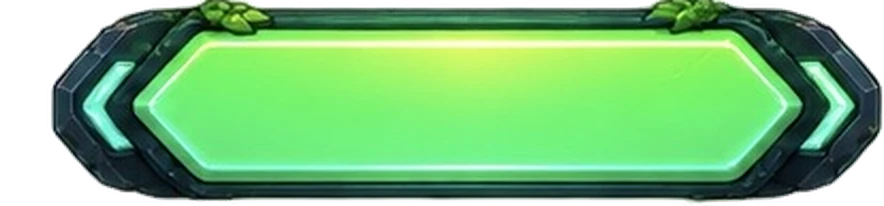
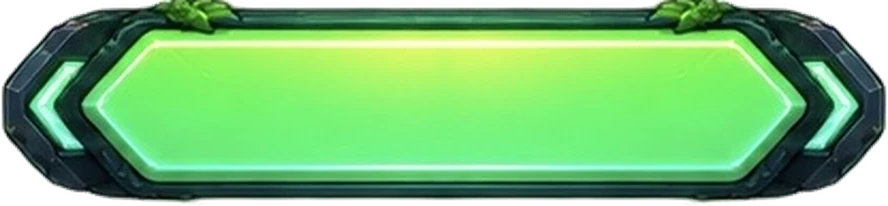
fix(game): everything in the dialogs centred and symmetric
Measured, not eyeballed: the green bar's left end had been cut by the
sheet's edge, leaving it 24px off-centre, so it is rebuilt by mirroring
its intact half; the defeat crest is padded onto its centroid; row cards
put the text column exactly on the picture's body and the icon on the
ring's centre; a wide button row no longer pushes the game-over column
3px right (rows stack, the panel's grid track is bounded); shop titles
and section labels are centred; titles clear the frame's crown gem.

diff --git a/src/game/game.css b/src/game/game.css
@@ -612,6 +612,8 @@ body {
 
 .panel-in {
   display: grid;
+  /* One track that can never grow past the box: a wide child must not shift the column. */
+  grid-template-columns: minmax(0, 1fr);
   align-content: safe center;
   justify-items: center;
   gap: 12px;
@@ -727,10 +729,9 @@ body {
   margin: 0;
 }
 
-/* Two bevelled bars side by side leave no room for words on a phone: stack them. */
-@media (max-width: 480px) {
-  .panel .row { flex-direction: column; gap: 10px; }
-}
+/* Two bevelled bars side by side are wider than the frame's plain centre
+   and would push the whole column off-centre: stack them, everywhere. */
+.panel .row { flex-direction: column; gap: 10px; }
 
 .coin {
   filter: drop-shadow(0 0 4px rgba(252, 211, 77, 0.6));
@@ -773,11 +774,11 @@ body {
 
 /* Shop */
 .shop-head {
-  display: flex;
-  align-items: center;
-  justify-content: space-between;
+  display: grid;
+  justify-items: center;
+  gap: 4px;
   width: 100%;
-  padding-inline: 6px;
+  text-align: center;
 }
 
 .wallet {
@@ -791,8 +792,9 @@ body {
 }
 
 .slot {
-  justify-self: start;
+  justify-self: center;
   margin: 8px 0 -4px;
+  text-align: center;
   font: 700 0.7rem/1 ui-monospace, monospace;
   letter-spacing: 0.12em;
   text-transform: uppercase;
@@ -889,13 +891,13 @@ body {
 .panel .style {
   --card: url('/images/game/ui/row_blue.webp');
   display: grid;
-  grid-template-columns: 34% minmax(0, 1fr);
+  grid-template-columns: 31.87% minmax(0, 1fr); /* 29% of the row = 29/91 of the content box */
   grid-template-rows: auto auto;
   align-content: center;
   justify-items: center;
   gap: 2px 0;
   min-height: 96px;
-  padding: 8% 12% 8% 0;
+  padding: 8% 9% 8% 0;
   border: 0;
   border-radius: 0;
   background: var(--card) center / 100% 100% no-repeat;
@@ -903,7 +905,7 @@ body {
 }
 
 .panel .style.is-on { --card: url('/images/game/ui/row_orange.webp'); background-color: transparent; }
-.panel .style .icon { grid-column: 1; grid-row: 1 / span 2; justify-self: center; font-size: 1.7rem; }
+.panel .style .icon { grid-column: 1; grid-row: 1 / span 2; justify-self: center; margin-left: 17%; font-size: 1.7rem; }
 .panel .style .skin-pic { display: block; height: 64px; width: auto; filter: drop-shadow(0 3px 4px rgba(0, 0, 0, 0.5)); }
 .panel .style b { grid-column: 2; color: #fff; text-shadow: 0 1px 2px rgba(0, 0, 0, 0.6); }
 .panel .style > span:not(.icon) { grid-column: 2; font-size: 0.76rem; line-height: 1.3; color: #d6dde9; }
@@ -933,7 +935,7 @@ body {
 .panel-in > h2:first-child,
 .panel-in > .ui-close + h2,
 .panel-in > .ui-close + .shop-head {
-  margin-top: 14px;
+  margin-top: 30px;
 }
 
 .panel p {
@@ -1185,14 +1187,16 @@ body {
 
   .panel .skill {
     --card: url('/images/game/ui/row_blue.webp');
-    grid-template-columns: 34% minmax(0, 1fr);
+    /* Measured on the row picture: ring 5–29% of the width, body 29–91%.
+       The text column is exactly the body, so centred text sits on its centre. */
+    grid-template-columns: 31.87% minmax(0, 1fr); /* 29% of the row = 29/91 of the content box */
     grid-template-rows: repeat(4, min-content);
     align-content: center;
     justify-items: center;
     gap: 1px 0;
     aspect-ratio: 266 / 107;
     min-height: 108px;
-    padding: 5px 16px 5px 2px;
+    padding: 5px 9% 5px 0;
     border: 0;
     background: var(--card) center / 100% 100% no-repeat;
     text-align: center;
@@ -1219,7 +1223,8 @@ body {
     height: 100%;
     line-height: 1;
   }
-  .panel .skill .icon .skill-icon { width: 72%; height: auto; aspect-ratio: 1; margin-left: 4%; }
+  /* The ring's centre is at 17% of the row: 29% column, icon nudged right by 17 − 14.5 = 2.5%. */
+  .panel .skill .icon .skill-icon { width: 80%; height: auto; aspect-ratio: 1; margin-left: 17%; }
 
   .panel .skill .cat {
     display: block;
@@ -1337,7 +1342,7 @@ body {
     min-width: 0;
     min-height: 108px;
     margin: 0;
-    padding: 5px 10px 5px 2px;
+    padding: 5px 9% 5px 0;
     z-index: auto;
   }
 

diff --git a/src/game/main.ts b/src/game/main.ts
@@ -408,7 +408,7 @@ function leaveScreen(to: 'site' | 'menu') {
 /* A header from the UI sheets: the ornament is the picture, the words sit in its plate. */
 /* Crest picture sizes, so the dialog can be measured before they load. */
 const HEAD_SIZE: Record<string, [number, number]> = {
-  pause: [480, 450], levelup: [480, 452], shrine: [450, 480], victory: [431, 480], defeat: [474, 472], boss: [480, 422], wings: [480, 304],
+  pause: [480, 450], levelup: [480, 452], shrine: [450, 480], victory: [431, 480], defeat: [481, 472], boss: [480, 422], wings: [480, 304],
 };
 const head = (kind: 'pause' | 'levelup' | 'victory' | 'defeat' | 'shrine' | 'wings', text: string) =>
   `<div class="ui-head is-${kind}"><img src="./images/game/ui/header_${kind}.webp" width="${HEAD_SIZE[kind][0]}" height="${HEAD_SIZE[kind][1]}" alt=""><span>${text}</span></div>`;

diff --git a/AGENTS.md b/AGENTS.md
@@ -11,7 +11,7 @@ Guide for any AI agent (Claude Code, Codex, Cursor, Gemini CLI…) working in th
 - `src/data/` — **content**: `experience.ts` (jobs and roles), `work.ts` (projects), `contact.ts`.
 - `src/i18n/locales/*.json` — eleven translation files. Any user-visible text must be added to **all eleven** (`en` is the reference).
 - `src/styles/partials/` — SCSS by section. `_mobile.scss` and `_responsive.scss` hold the phone layout (≤760px).
-- `game.html` + `src/game/` — **Bug Hunter**, an Archero-style canvas game with Survivor.io-style weapons (move to dodge, stand still and ranged weapons fire; melee and magic work all the time; bugs drop XP gems; twelve rooms: ten fights with bosses in rooms 6 and 12, plus two shrine rooms (5 and 11); each level up offers one melee, one magic and one ranged or upgrade pick). The Spirits skill is a companion: one ghost per level floats at the hero's side (`SPIRIT_SLOTS`) and, while you stand still, shoots a purple `orb` shot at the nearest bug. Eight worlds of twelve sprints (`WORLDS` in `world.ts`): world 1 is the plain backlog, worlds 2–8 are themed by element with their own colours, a hazard (lava, puddles, thorns, lightning, bouncing shots, fog, mixed) and tougher bugs; finishing a world unlocks the next on the world map (`mapScreen` in `main.ts`, progress in `save.ts`). The map is built from the owner's island artwork in `static/images/game/map/` (one WebP per world, plus a 16:10 preview each; `rayo` and `nucleo` are hue-shifted copies of `infierno` and `demonios`): `ISLAND_META` holds, per image, where the ring, name plate and badge sit so the translated overlays line up with the art. It has a main menu with a shop (coins earned per run buy items worn in three slots: head, charm, relic; `shop.ts`), an enemy-look picker (original, demon, Greek arena, nightmare, random; drawn in `draw.ts`), and sound options; the dialogs, HUD, cards and crests are cut from the owner's UI sheets into `static/images/game/ui/` (the two stone-and-neon frames, squat and tall, are drawn whole behind each dialog, never sliced: `fitPanel()` in `main.ts` measures the content, picks the frame whose shape is closer and sets height and padding from the bands in `FRAMES`, so the content sits in the plain centre and long dialogs scroll inside; the frame pictures are padded so the gem's axis is the exact centre of the file, so never recentre them with a transform; the card WebPs are cut without the dark matte the sheets carry around each piece, so no CSS masks are needed; the owner's three chamfered bars as `border-image` (`ui/btn2_{blue,green,orange}.webp`: blue for the main action, green to play, orange for anything that costs coins; grey `btn_gray` for secondary buttons); crests for pause, level-up, shrine, victory, defeat and boss with the title set underneath; tall cards with a ring, title plate and bottom plate for the level-up picks on wide screens and row cards on phones, the same rows for the enemy-look picker; see `.ui-head`, `.panel .skill`, `.panel .style` in `game.css`); the health, XP and boss meters are the owner's layered bars (`ui/meter_{hp,xp}_{frame,fill}.webp`): the frame keeps its shape and the fill sits at the coordinates from the pack's layout.json, clipped to `--p` by `setMeter()` in `main.ts`, never resized; each skill has a painted medallion in `static/images/game/skills/<id>.webp` (`skillIcon()` in `main.ts`), shown in the level-up cards and the HUD weapon row (`double` doubles as the bow's icon); the main menu is the owner's cover mock-up used as is (`static/images/game/cover.jpg`, with its words wiped off the picture) and transparent buttons plus translatable text laid over the painted controls at fixed percentages in `menuScreen` (`.cover*` in `game.css`); the canvas title parade (`scene.ts`) still runs behind the other menu screens. While the cover and the map art load, `game.html` shows its own purple loading bar (`.loading`), which `main.ts` fills as each picture arrives and removes before opening the menu (never later than 6 s). Rooms 5 and 11 (`SHRINE_ROOMS`) are shrines: no enemies, the door open, and a statue in the middle that, when touched, offers half your health back or a random new skill (`shrinePick`; `shrineScreen` in `main.ts`); the altar is drawn from `ui/statue_on.webp` and `statue_off.webp`. Difficulty is tuned per fight number, not per room (`stageOf`), so the shrines don't make later fights harder. Clearing room 8 (`WHEEL_ROOM`) also opens a second, purple door in the top wall at `WHEEL_X`, once per run: it leads to the wheel of fate (`WHEEL`, `applyWheel`, `leaveWheel` in `world.ts`; `wheelScreen` in `main.ts`), eight slices with four good, three bad and one empty, drawn on the owner's painted disc and pointer (`ui/wheel_disc.webp`, `wheel_pin.webp`), then on to room 9. Dying with at least 1000 coins (banked plus this run's, `REVIVE_PRICE`) offers, once per run, to buy your way back up with half your health (`paidRevive` in `world.ts`, `reviveScreen` in `main.ts`; the run's coins are spent first, then the bank). On localhost `window.bugHunter` exposes the running game so those screens can be reached by a script. The hero is drawn from pose pictures cut from the owner's character sheet (`static/images/game/hero/<skin>-<hat>-<pose>.webp`: two skins, boy and robot, picked in the Enemies/Styles screen and kept as `save.skin`; four head states, base or the worn head item, since the hats are painted on; five poses, idle, walk, back, shoot, cheer; `drawPlayer` in `draw.ts` picks one from movement, facing and whether the room is clear, flips it to face left and alternates idle/walk for a step cycle); the collision circle in `world.ts` is unchanged. Each world has its own cast of enemies (`look` in `WORLDS`: original bugs, demons, vikings, jungle, Greek arena, robots, nightmare; world 8 mixes them), drawn in `draw.ts`; the picker can force one. The original, demon and Greek casts have painted sprites (`static/images/game/enemies/<look>-<kind>-<frame>.webp`, four frames each, cycled by the enemy's wobble; `drawEnemySprite` in `draw.ts`, `SPRITE_LOOKS`); the other casts, and every cast in the retro look, use the hand-drawn figures. All audio is synthesised in `audio.ts` with the Web Audio API (drum and bass at 174 BPM: a 64-bar set where two "DJs" alternate, with a trance breakdown and a lifted second progression); there are no audio files. Progress lives in one localStorage key (`save.ts`). Balance changes are best checked by simulating games in Node against `world.ts`. Rules in `world.ts` (no DOM, so it can be simulated in Node), drawing in `draw.ts`, screens and input in `main.ts`, text in `strings.ts` (English and Spanish only). It reads the site's saved `lang` and `accent`. Options has a **Retro look** switch (`save.retro`, `data-retro` on `<html>`): the override block at the end of `game.css` turns the painted textures off (plain panels, flat buttons, bordered cards, emoji icons, one-row HUD) and `draw.ts` draws the ring-and-avatar hero and the hand-drawn statue instead of the sprites; `fitPanel()` steps aside in retro. The game's text is set in Fredoka (Google Fonts, loaded only by `game.html`; `--font` in `game.css`); the monospace numbers stay as they are.
+- `game.html` + `src/game/` — **Bug Hunter**, an Archero-style canvas game with Survivor.io-style weapons (move to dodge, stand still and ranged weapons fire; melee and magic work all the time; bugs drop XP gems; twelve rooms: ten fights with bosses in rooms 6 and 12, plus two shrine rooms (5 and 11); each level up offers one melee, one magic and one ranged or upgrade pick). The Spirits skill is a companion: one ghost per level floats at the hero's side (`SPIRIT_SLOTS`) and, while you stand still, shoots a purple `orb` shot at the nearest bug. Eight worlds of twelve sprints (`WORLDS` in `world.ts`): world 1 is the plain backlog, worlds 2–8 are themed by element with their own colours, a hazard (lava, puddles, thorns, lightning, bouncing shots, fog, mixed) and tougher bugs; finishing a world unlocks the next on the world map (`mapScreen` in `main.ts`, progress in `save.ts`). The map is built from the owner's island artwork in `static/images/game/map/` (one WebP per world, plus a 16:10 preview each; `rayo` and `nucleo` are hue-shifted copies of `infierno` and `demonios`): `ISLAND_META` holds, per image, where the ring, name plate and badge sit so the translated overlays line up with the art. It has a main menu with a shop (coins earned per run buy items worn in three slots: head, charm, relic; `shop.ts`), an enemy-look picker (original, demon, Greek arena, nightmare, random; drawn in `draw.ts`), and sound options; the dialogs, HUD, cards and crests are cut from the owner's UI sheets into `static/images/game/ui/` (the two stone-and-neon frames, squat and tall, are drawn whole behind each dialog, never sliced: `fitPanel()` in `main.ts` measures the content, picks the frame whose shape is closer and sets height and padding from the bands in `FRAMES`, so the content sits in the plain centre and long dialogs scroll inside; the frame pictures are padded so the gem's axis is the exact centre of the file, so never recentre them with a transform; the card WebPs are cut without the dark matte the sheets carry around each piece, so no CSS masks are needed; every UI picture's visual centre is within 1px of its file's centre (measure the alpha centroid and the mid-row extent before adding one; `btn2_green` was rebuilt by mirroring its intact half because the sheet cut its left end); row cards place the text column exactly on the picture's body (ring 5–29%, body 29–91% of the width: columns `31.87% 1fr` with `padding-right: 9%`, since grid percentages resolve against the content box) and the icon on the ring's centre at 17%; side-by-side button rows are stacked everywhere because two bevelled bars are wider than the frame's plain centre and would shift the whole column; the owner's three chamfered bars as `border-image` (`ui/btn2_{blue,green,orange}.webp`: blue for the main action, green to play, orange for anything that costs coins; grey `btn_gray` for secondary buttons); crests for pause, level-up, shrine, victory, defeat and boss with the title set underneath; tall cards with a ring, title plate and bottom plate for the level-up picks on wide screens and row cards on phones, the same rows for the enemy-look picker; see `.ui-head`, `.panel .skill`, `.panel .style` in `game.css`); the health, XP and boss meters are the owner's layered bars (`ui/meter_{hp,xp}_{frame,fill}.webp`): the frame keeps its shape and the fill sits at the coordinates from the pack's layout.json, clipped to `--p` by `setMeter()` in `main.ts`, never resized; each skill has a painted medallion in `static/images/game/skills/<id>.webp` (`skillIcon()` in `main.ts`), shown in the level-up cards and the HUD weapon row (`double` doubles as the bow's icon); the main menu is the owner's cover mock-up used as is (`static/images/game/cover.jpg`, with its words wiped off the picture) and transparent buttons plus translatable text laid over the painted controls at fixed percentages in `menuScreen` (`.cover*` in `game.css`); the canvas title parade (`scene.ts`) still runs behind the other menu screens. While the cover and the map art load, `game.html` shows its own purple loading bar (`.loading`), which `main.ts` fills as each picture arrives and removes before opening the menu (never later than 6 s). Rooms 5 and 11 (`SHRINE_ROOMS`) are shrines: no enemies, the door open, and a statue in the middle that, when touched, offers half your health back or a random new skill (`shrinePick`; `shrineScreen` in `main.ts`); the altar is drawn from `ui/statue_on.webp` and `statue_off.webp`. Difficulty is tuned per fight number, not per room (`stageOf`), so the shrines don't make later fights harder. Clearing room 8 (`WHEEL_ROOM`) also opens a second, purple door in the top wall at `WHEEL_X`, once per run: it leads to the wheel of fate (`WHEEL`, `applyWheel`, `leaveWheel` in `world.ts`; `wheelScreen` in `main.ts`), eight slices with four good, three bad and one empty, drawn on the owner's painted disc and pointer (`ui/wheel_disc.webp`, `wheel_pin.webp`), then on to room 9. Dying with at least 1000 coins (banked plus this run's, `REVIVE_PRICE`) offers, once per run, to buy your way back up with half your health (`paidRevive` in `world.ts`, `reviveScreen` in `main.ts`; the run's coins are spent first, then the bank). On localhost `window.bugHunter` exposes the running game so those screens can be reached by a script. The hero is drawn from pose pictures cut from the owner's character sheet (`static/images/game/hero/<skin>-<hat>-<pose>.webp`: two skins, boy and robot, picked in the Enemies/Styles screen and kept as `save.skin`; four head states, base or the worn head item, since the hats are painted on; five poses, idle, walk, back, shoot, cheer; `drawPlayer` in `draw.ts` picks one from movement, facing and whether the room is clear, flips it to face left and alternates idle/walk for a step cycle); the collision circle in `world.ts` is unchanged. Each world has its own cast of enemies (`look` in `WORLDS`: original bugs, demons, vikings, jungle, Greek arena, robots, nightmare; world 8 mixes them), drawn in `draw.ts`; the picker can force one. The original, demon and Greek casts have painted sprites (`static/images/game/enemies/<look>-<kind>-<frame>.webp`, four frames each, cycled by the enemy's wobble; `drawEnemySprite` in `draw.ts`, `SPRITE_LOOKS`); the other casts, and every cast in the retro look, use the hand-drawn figures. All audio is synthesised in `audio.ts` with the Web Audio API (drum and bass at 174 BPM: a 64-bar set where two "DJs" alternate, with a trance breakdown and a lifted second progression); there are no audio files. Progress lives in one localStorage key (`save.ts`). Balance changes are best checked by simulating games in Node against `world.ts`. Rules in `world.ts` (no DOM, so it can be simulated in Node), drawing in `draw.ts`, screens and input in `main.ts`, text in `strings.ts` (English and Spanish only). It reads the site's saved `lang` and `accent`. Options has a **Retro look** switch (`save.retro`, `data-retro` on `<html>`): the override block at the end of `game.css` turns the painted textures off (plain panels, flat buttons, bordered cards, emoji icons, one-row HUD) and `draw.ts` draws the ring-and-avatar hero and the hand-drawn statue instead of the sprites; `fitPanel()` steps aside in retro. The game's text is set in Fredoka (Google Fonts, loaded only by `game.html`; `--font` in `game.css`); the monospace numbers stay as they are.
 - `static/data/experience.json` — a second copy of the experience data used by the legacy calendar page (`src/legacy/calendar`). **Keep it in sync** with `src/data/experience.ts`.
 - `static/cv/alvaro-molina-cv.pdf` — the CV served by the "Download CV" button. Generated from `scripts/cv/cv.html` (see below).
 - `scripts/build/` — build pipeline (prerender, GitHub contributions, sitemaps).
